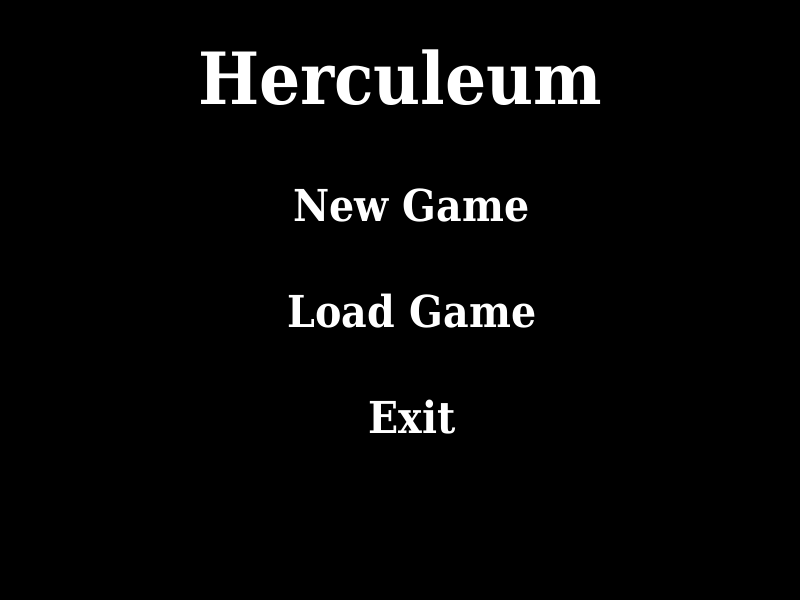
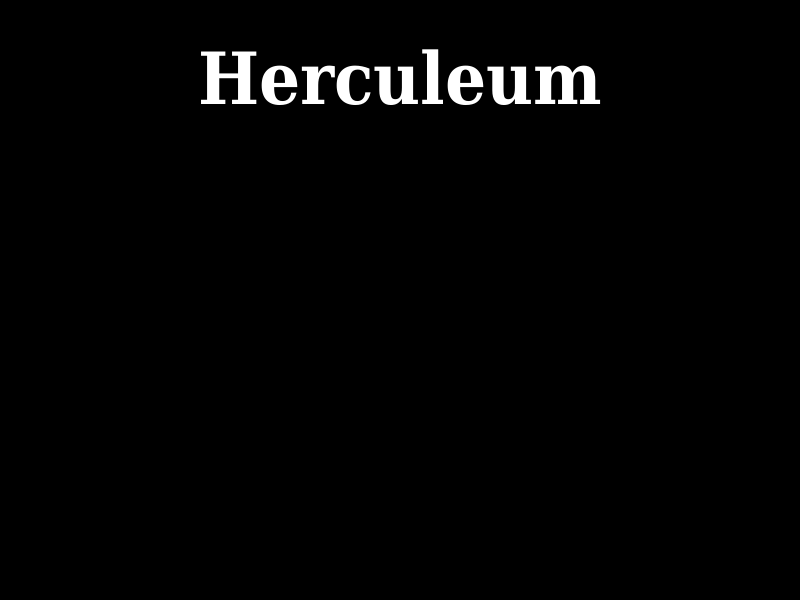
more refined start menu

Changed region(s): [[0.3438, 0.48, 0.6875, 0.57], [0.375, 0.3, 0.6562, 0.39], [0.4688, 0.66, 0.5625, 0.72]]

diff --git a/src/pyHerc/gui/startmenu.py b/src/pyHerc/gui/startmenu.py
@@ -39,17 +39,22 @@ class StartMenu(pgu.gui.Container):
         '''
         Set layout of this screen
         '''
+        bg = pgu.gui.Image(
+                                        self.surface_manager.getImage(images.image_start_menu))
+        self.add(bg, 0, 0)
+
         b = pgu.gui.Button("New game", width=150)
-        self.add(b, 0, 0)
-        b.connect(pgu.gui.CLICK, self.__startNewGame, None)
+        self.add(b, 325, 200)
+        b.connect(pgu.gui.CLICK, self.__startNewGame)
 
         b = pgu.gui.Button("Load game", width=150)
-        self.add(b, 0, 50)
+        self.add(b, 325, 250)
 
         b = pgu.gui.Button("Quit", width=150)
-        self.add(b, 0, 100)
+        self.add(b, 325, 300)
+        b.connect(pgu.gui.CLICK, self.__quit_game)
 
-    def __startNewGame(self, event_params):
+    def __startNewGame(self):
         self.logger.info('starting a new game')
         newWindow = pyHerc.gui.windows.StartNewGameWindow(self.application, self.screen, self.surface_manager)
         newWindow.mainLoop()
@@ -67,3 +72,6 @@ class StartMenu(pgu.gui.Container):
             dialog.show(endResult)
 
         self.repaint()
+
+    def __quit_game(self):
+        self.get_toplevel().quit()

diff --git a/pgu/pgu/gui/imagebox.py b/pgu/pgu/gui/imagebox.py
@@ -1,0 +1,35 @@
+'''
+Display static image
+'''
+
+from pygame.locals import *
+
+from .const import *
+from . import widget, surface
+from . import basic
+
+class ImageBox(widget.Widget):
+
+    def __init__(self, **params):
+        widget.Widget.__init__(self,**params)
+        self.image = None
+
+    def paint(self, s):
+        # Paint the pygame.Surface
+        #if self.image != None and s != None:
+        #    s.blit(self.image, s)
+        pass
+            
+    def update(self, s):
+        # Update the pygame.Surface and return the update rects
+        return [pygame.Rect(0, 0, self.rect.w, self.rect.h)]
+                
+    def event(self, e):
+        # Handle the pygame.Event
+        return
+                
+    def resize(self, width=None, height=None):
+        return self.rect.w,self.rect.h
+    
+    def set_image(self, image):
+        self.image = image

diff --git a/src/pyHerc/gui/surfaceManager.py b/src/pyHerc/gui/surfaceManager.py
@@ -57,8 +57,6 @@ class SurfaceManager:
 
             surface = self.load_surface(base_path, 'main_menu.png')
             self.images[images.image_start_menu] = surface
-            surface = self.load_surface(base_path, 'menu_arrow.png')
-            self.images[images.image_start_menu_arrow] = surface
             surface = self.load_surface(base_path, 'play_area.png')
             self.images[images.image_play_area] = surface
             surface = self.load_surface(base_path, 'inventory_menu.png')

diff --git a/pgu/pgu/gui/__init__.py b/pgu/pgu/gui/__init__.py
@@ -35,6 +35,7 @@ from .keysym import Keysym
 from .slider import VSlider, HSlider, VScrollBar, HScrollBar
 from .select import Select
 from .misc import ProgressBar
+from .imagebox import ImageBox
 
 from .menus import Menus
 from .dialog import Dialog, FileDialog

diff --git a/src/pyHerc/gui/images.py b/src/pyHerc/gui/images.py
@@ -19,8 +19,7 @@
 #   along with pyHerc.  If not, see <http://www.gnu.org/licenses/>.
 
 image_start_menu = 1
-image_start_menu_arrow = 2
-image_inventory_menu = 3
+image_inventory_menu = 2
 
 image_play_area = 4
 
